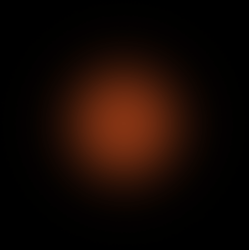
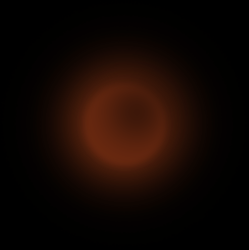
Better Emission

Changed region(s): [[0.3936, 0.364, 0.6466, 0.588]]

diff --git a/src/renderer.ts b/src/renderer.ts
@@ -56,7 +56,7 @@ export class Renderer {
     precision highp float;
 
     const vec3 light_dir = normalize(vec3(0.5, -0.5, -0.707));
-    const vec3 directional = vec3(0.4);
+    const vec3 directional = vec3(0.3);
     const vec3 ambient = vec3(0.6);
 
     vec3 lighting(vec3 color, vec3 normal, float shadow) {
@@ -360,11 +360,12 @@ export class Renderer {
     // bgScr => mainScr
     renderFloor() {
         // (light_dir.z * directional * shadow + ambient) * color;
-        // light　0.8828 225
+        // (0.707 * 0.3 + 0.6)
+        // light　0.8121 207
         // shadow 0.6    153
 
         this.mainScr.clear(0, 0, 0, 0);
-        this.mainScr.background(225);
+        this.mainScr.background(207);
 
         this.blobs.forEach(a => this.mainScr.image(
             Asset.shadow80,
